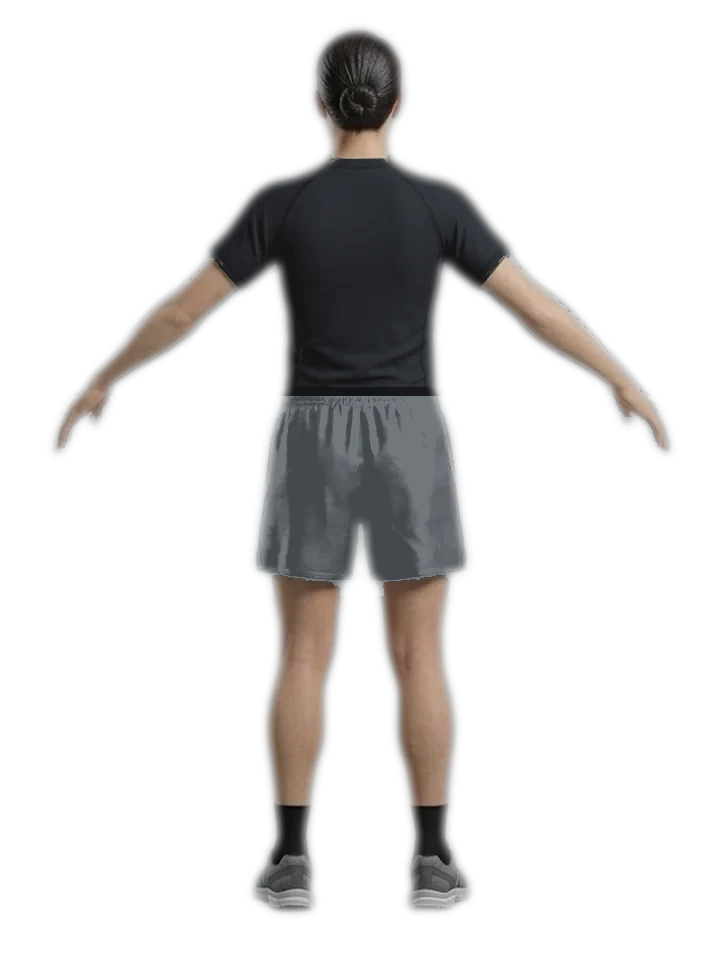
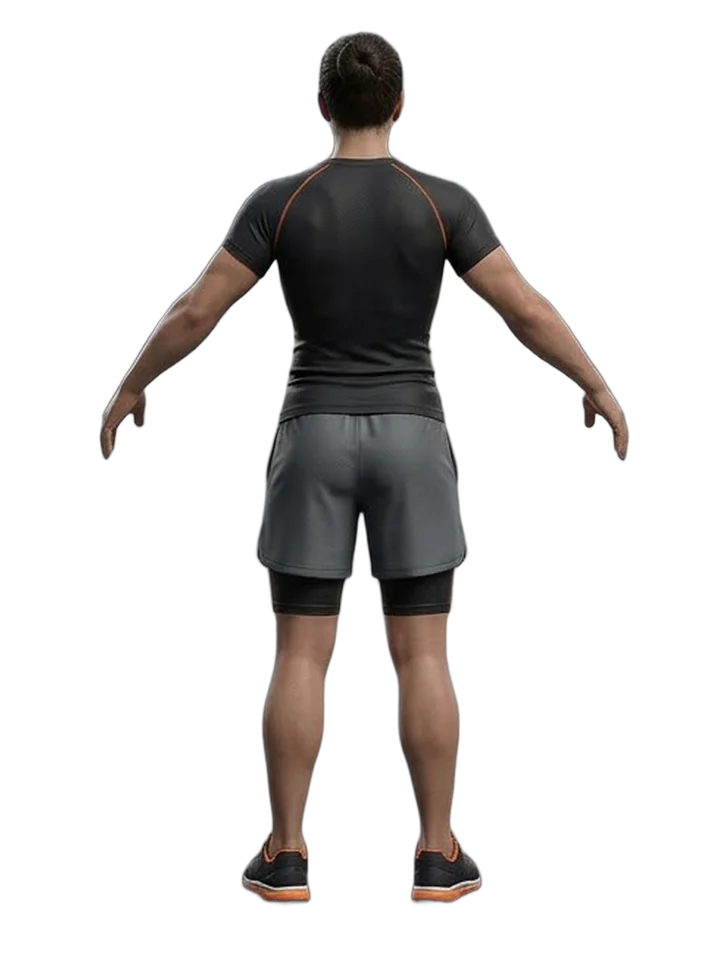
Body map: new PT_FEMALE_01 figure matching the male outfit
Cut from the user's female reference sheet (saved as docs/PT_FEMALE_01-sheet.jpg),
same layout as the male figure; tap spots realigned (knees lowered to the kneecaps).
Image URLs bumped to ?v=4.

Claude-Session: https://claude.ai/code/session_014uyXh6zoA21sWb6tNM4t6o

Changed region(s): [[0.0611, 0.0312, 0.9472, 0.9688]]

diff --git a/index.html b/index.html
@@ -1699,9 +1699,9 @@ function bodyUse(){
 /* Spot positions on the 720×960 photo frames. Paired values are viewer-left x, viewer-right x, y. */
 const BPTS={
  'm-front':{neck:[360,162],shoulder:[247,473,228],elbow:[160,560,322],wrist:[110,610,400],hip:[300,422,470],knee:[300,422,632],ankle:[287,433,835]},
- 'f-front':{neck:[360,150],shoulder:[240,480,247],elbow:[140,580,345],wrist:[75,645,412],hip:[290,430,470],knee:[300,420,660],ankle:[290,430,832]},
+ 'f-front':{neck:[360,162],shoulder:[247,473,228],elbow:[160,560,322],wrist:[110,610,400],hip:[300,422,470],knee:[302,420,648],ankle:[287,433,835]},
  'm-back':{neck:[360,148],uback:[360,250],back:[360,375],shoulder:[248,472,232],elbow:[152,566,330],wrist:[104,612,402],hip:[298,422,472],knee:[300,420,632],ankle:[292,428,835]},
- 'f-back':{neck:[360,146],uback:[360,252],back:[360,370],shoulder:[240,480,250],elbow:[140,580,345],wrist:[75,640,416],hip:[295,425,470],knee:[300,420,662],ankle:[290,430,842]}};
+ 'f-back':{neck:[360,148],uback:[360,250],back:[360,375],shoulder:[248,472,232],elbow:[152,566,330],wrist:[104,612,402],hip:[298,422,472],knee:[302,420,650],ankle:[292,428,835]}};
 /* On the front view the Soldier's right side is on the viewer's left; on the back view it is on the viewer's right. */
 function bRegions(key){const back=key.endsWith('back'),o=[];
   for(const [a,v] of Object.entries(BPTS[key])){if(v.length===2)o.push({a,s:'',x:v[0],y:v[1]});else{o.push({a,s:back?'L':'R',x:v[0],y:v[2]});o.push({a,s:back?'R':'L',x:v[1],y:v[2]})}}
@@ -1709,7 +1709,7 @@ function bRegions(key){const back=key.endsWith('back'),o=[];
 function figSex(){return (S.fig&&S.fig.sex)==='f'?'f':'m'}
 const B3={view:'front',prev:null,busy:false,
  key(){return figSex()+'-'+this.view},
- src(v){return `ph/body-${figSex()}-${v||this.view}.webp?v=3`},
+ src(v){return `ph/body-${figSex()}-${v||this.view}.webp?v=4`},
  stageHtml(){return `<span class="bview" id="bview" aria-hidden="true">${this.view==='back'?'Back':'Front'}</span>
   <div class="bfig" id="bfig"><img id="bimg" src="${this.src()}" alt="" width="720" height="960" draggable="false"><div class="bspots" id="bspots">${this.spotsHtml()}</div></div>
   <button class="btn ghost bflip" data-a="bflip" aria-label="Turn the Soldier around to see the ${this.view==='back'?'front':'back'}">${FLIPIC}Turn</button>`},
@@ -1719,7 +1719,7 @@ const B3={view:'front',prev:null,busy:false,
    const lab=BCENTER[r.a]?AREAS[r.a]:(r.s==='L'?'Left ':'Right ')+AREAS[r.a].toLowerCase();
    return `<button class="bspot${on?' on':''}${on&&fresh.has(k)?' pop':''}" style="left:${(r.x/7.2).toFixed(2)}%;top:${(r.y/9.6).toFixed(2)}%" data-a="bspot" data-v="${r.a}" data-s="${r.s}" aria-pressed="${on}" aria-label="${lab}${on?', marked '+(i+1):''}">${on?`<span class="bn" aria-hidden="true">${i+1}</span>`:''}</button>`}).join('')},
  mount(host){
-  for(const s of ['m','f'])for(const v of ['front','back']){const im=new Image();im.src=`ph/body-${s}-${v}.webp?v=3`}
+  for(const s of ['m','f'])for(const v of ['front','back']){const im=new Image();im.src=`ph/body-${s}-${v}.webp?v=4`}
   this.prev=this.marked();
   const f=document.getElementById('bfig');if(!f)return;
   /* Swipe sideways to turn; tap anywhere near a joint to mark it */

diff --git a/sw.js b/sw.js
@@ -1,5 +1,5 @@
-/* H2F Trainer offline cache, version c3a1e7m10 */
-const V='h2f-c3a1e7m10',SHELL=["/", "/index.html", "/manifest.webmanifest", "/icons/icon-192.png", "/icons/apple-touch-icon.png", "/ph/body-m-front.webp?v=3", "/ph/body-m-back.webp?v=3", "/ph/body-f-front.webp?v=3", "/ph/body-f-back.webp?v=3"];
+/* H2F Trainer offline cache, version c3a1e7m11 */
+const V='h2f-c3a1e7m11',SHELL=["/", "/index.html", "/manifest.webmanifest", "/icons/icon-192.png", "/icons/apple-touch-icon.png", "/ph/body-m-front.webp?v=4", "/ph/body-m-back.webp?v=4", "/ph/body-f-front.webp?v=4", "/ph/body-f-back.webp?v=4"];
 self.addEventListener('install',e=>{e.waitUntil(caches.open(V).then(c=>c.addAll(SHELL)).then(()=>self.skipWaiting()))});
 self.addEventListener('activate',e=>{e.waitUntil(caches.keys().then(ks=>Promise.all(ks.filter(k=>k!==V).map(k=>caches.delete(k)))).then(()=>self.clients.claim()))});
 self.addEventListener('fetch',e=>{
